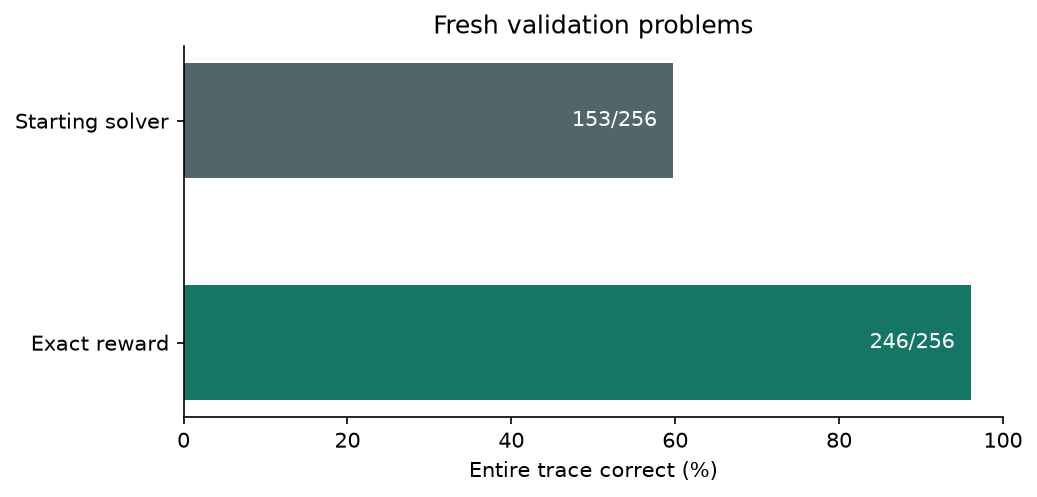
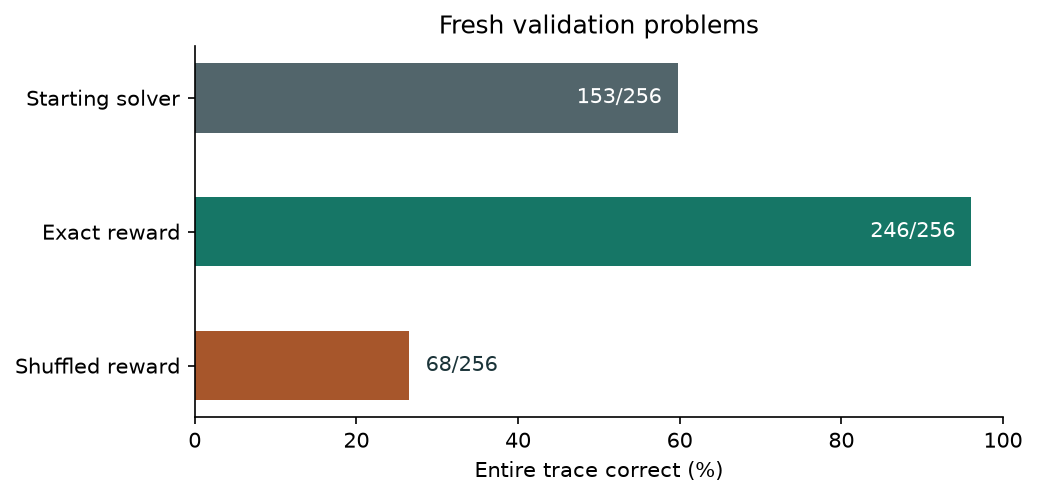
Record learnability-learn-shuffle-17-evaluation study milestone

diff --git a/reports/experiments/learnings.md b/reports/experiments/learnings.md
@@ -3,4 +3,4 @@
 - [base](base/learnings.md). The solver completed 0 of 32 development calculations exactly. Among 26 serialization failures, 5 contained all correct numbers as named assignments. On those same development traces, Judge 3 fixed 0 of Judge 2’s verdicts and introduced 1 errors.
 - [d3-17](d3-17/learnings.md). The exact checker accepted 0.0% of observed policy outputs. The assigned reward averaged 2.9%. Of 1024 rollouts, 30 received reward for an incorrect output and 0 lost reward for a correct output. 227 of 256 complete groups had identical rewards. The solver completed 0 of 32 development calculations exactly. Among 32 serialization failures, 0 contained all correct numbers as named assignments. On those same development traces, Judge 3 fixed 0 of Judge 2’s verdicts and introduced 0 errors.
 - [learn-oracle-17](learn-oracle-17/learnings.md). On the fresh learning-validation cohort, 246 of 256 complete traces were correct and 255 parsed. The exact checker accepted 82.4% of observed policy outputs. The assigned reward averaged 82.4%. Of 512 rollouts, 0 received reward for an incorrect output and 0 lost reward for a correct output. 112 of 128 complete groups had identical rewards.
-- [learn-shuffle-17](learn-shuffle-17/learnings.md). The exact checker accepted 20.7% of observed policy outputs. The assigned reward averaged 20.7%. Of 512 rollouts, 23 received reward for an incorrect output and 23 lost reward for a correct output. 99 of 128 complete groups had identical rewards.
+- [learn-shuffle-17](learn-shuffle-17/learnings.md). On the fresh learning-validation cohort, 68 of 256 complete traces were correct and 256 parsed. The exact checker accepted 20.7% of observed policy outputs. The assigned reward averaged 20.7%. Of 512 rollouts, 23 received reward for an incorrect output and 23 lost reward for a correct output. 99 of 128 complete groups had identical rewards.

diff --git a/reports/experiments/learn-shuffle-17/learnings.md b/reports/experiments/learn-shuffle-17/learnings.md
@@ -1,5 +1,5 @@
 # Observations from learn-shuffle-17
 
-The exact checker accepted 20.7% of observed policy outputs. The assigned reward averaged 20.7%. Of 512 rollouts, 23 received reward for an incorrect output and 23 lost reward for a correct output. 99 of 128 complete groups had identical rewards.
+On the fresh learning-validation cohort, 68 of 256 complete traces were correct and 256 parsed. The exact checker accepted 20.7% of observed policy outputs. The assigned reward averaged 20.7%. Of 512 rollouts, 23 received reward for an incorrect output and 23 lost reward for a correct output. 99 of 128 complete groups had identical rewards.
 
 [Raw measurements and denominators](experiment.md) · [Analysis amendments](../../amendments.md)

diff --git a/reports/experiments/learn-shuffle-17/experiment.md b/reports/experiments/learn-shuffle-17/experiment.md
@@ -6,6 +6,8 @@ The solver adapter starts from a fresh LoRA initialization with seed 17. Its rew
 |---|---|---:|---:|---:|---:|---:|
 | learn-shuffle-17 | solver | 128 | — | 0 | — | 0 |
 
+On the fresh learning-validation cohort, 68 of 256 complete traces were correct and 256 parsed. [Individual validation records](../../../results/learnability/evaluations/learn-shuffle-17.jsonl).
+
 ### Training generation cost
 
 | Role | Calls | Input tokens | Output tokens | CUDA event seconds |

diff --git a/reports/learnability.md b/reports/learnability.md
@@ -35,5 +35,6 @@ Judge 3 solved 0.0% of 16 complete evidence pairs with the review visible and 0.
 | --- | --- | --- | --- | --- |
 | base | 256 | 256 | 153 | 59.8% |
 | learn-oracle-17 | 256 | 255 | 246 | 96.1% |
+| learn-shuffle-17 | 256 | 256 | 68 | 26.6% |
 
 ![Greedy complete-trace accuracy and available paired contrasts](../docs/assets/learnability.png)
